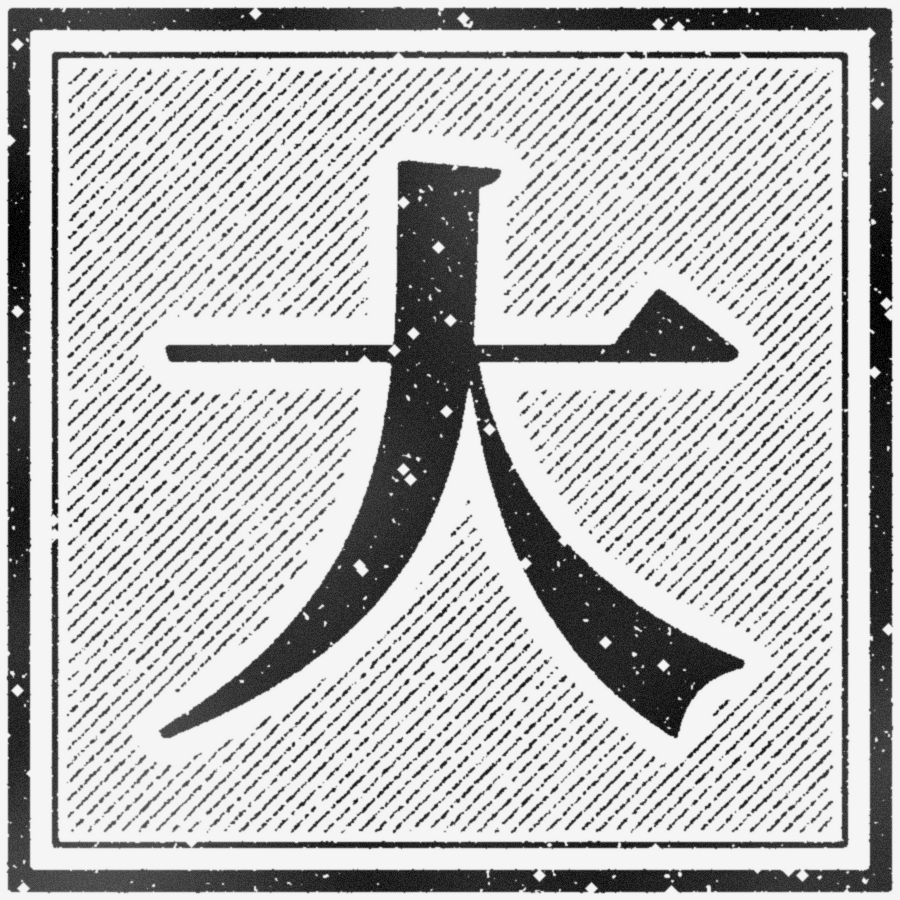
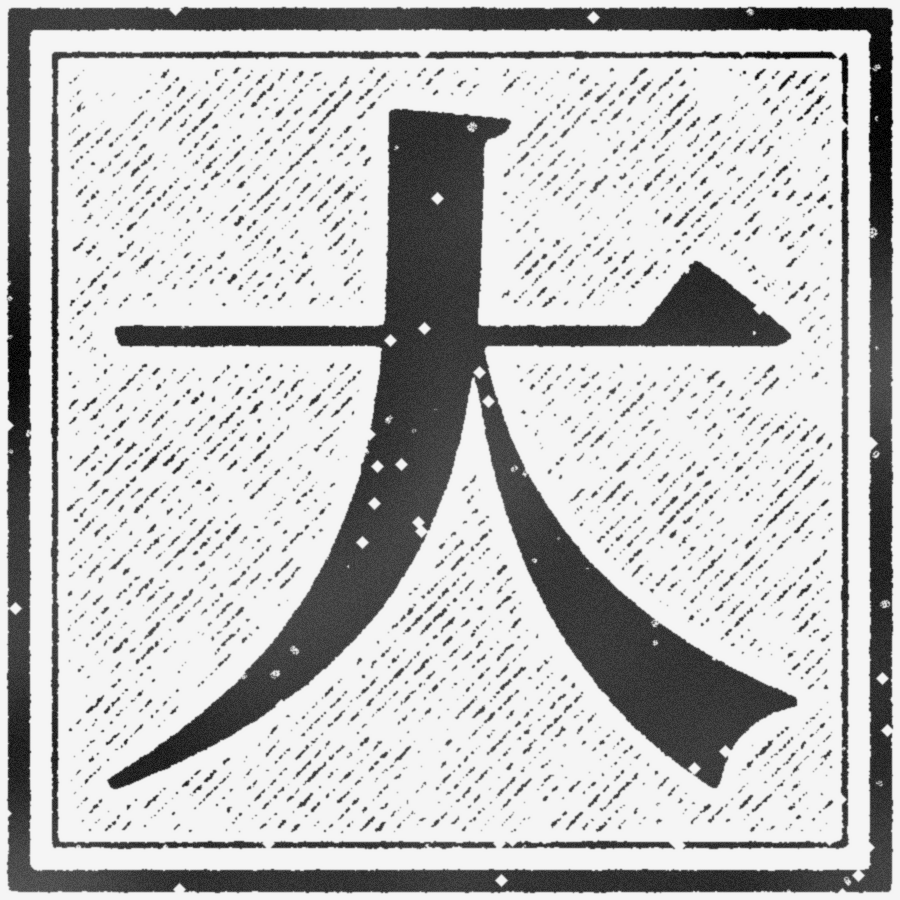
Chinese initials: Song bold filling the frame, 4 lines to match the Latin
The 1610 woodcut letters are plain roman capitals that fill their blocks,
so the Chinese initials now use the book's Song bold (有 was in Kai) scaled
to fill the frame, and drop over 4 lines to match the Latin blocks' height.

diff --git a/tools/make_zh_initial.py b/tools/make_zh_initial.py
@@ -1,21 +1,34 @@
 """Render a Chinese character as an aged woodblock initial, to match the
 woodcut initials of the 1610 edition.
 
-usage: python tools/make_zh_initial.py CHAR FONTFILE OUT.png [--seed N]
+usage: python tools/make_zh_initial.py CHAR FONTFILE OUT.png [--seed N] [--wght W]
 
 Double-ruled square block with a hatched ground, the character in solid ink
 with a white halo, then worn: ragged edges, uneven inking, specks where the
 ink did not take. Output: greyscale PNG, 900 px square (about 35 mm at 657 dpi).
+
+The character is scaled to fill the frame, as the roman capitals of the 1610
+woodcut initials do, and set in a Song (serif) face: the woodcut letters are
+plain roman capitals, so the Chinese counterpart is the plain book face too.
+--wght instances a variable font (e.g. NotoSerifSC-VF.ttf --wght 900).
 """
+import io
 import sys
 
 import numpy as np
+from fontTools.ttLib import TTFont
+from fontTools.varLib import instancer
 from PIL import Image, ImageDraw, ImageFont
 from scipy import ndimage as ndi
 
 char, fontfile, out = sys.argv[1], sys.argv[2], sys.argv[3]
 seed = int(sys.argv[sys.argv.index('--seed') + 1]) if '--seed' in sys.argv else 1
 rng = np.random.default_rng(seed)
+if '--wght' in sys.argv:
+    w = int(sys.argv[sys.argv.index('--wght') + 1])
+    inst = instancer.instantiateVariableFont(TTFont(fontfile), {'wght': w})
+    fontfile = io.BytesIO()
+    inst.save(fontfile)
 
 S = 900
 ink = Image.new('L', (S, S), 0)          # 255 = ink
@@ -34,17 +47,23 @@ gmask = Image.new('L', (S, S), 0)
 ImageDraw.Draw(gmask).rectangle([66, 66, S - 67, S - 67], fill=255)
 ink.paste(ground, (0, 0), gmask)
 
-# character: white halo, then solid ink
-font = ImageFont.truetype(fontfile, 620)
+# character: white halo, then solid ink; sized so its larger side is FILL px
+FILL = 730
+if isinstance(fontfile, io.BytesIO):
+    fontfile.seek(0)
+    data = fontfile.getvalue()
+    load = lambda size: ImageFont.truetype(io.BytesIO(data), size)
+else:
+    load = lambda size: ImageFont.truetype(fontfile, size)
+box = d.textbbox((0, 0), char, font=load(600))
+font = load(round(600 * FILL / max(box[2] - box[0], box[3] - box[1])))
 box = d.textbbox((0, 0), char, font=font)
 x = (S - (box[2] - box[0])) / 2 - box[0]
 y = (S - (box[3] - box[1])) / 2 - box[1]
 glyph = Image.new('L', (S, S), 0)
 ImageDraw.Draw(glyph).text((x, y), char, font=font, fill=255)
 gl = np.asarray(glyph) > 127
-if '--thicken' in sys.argv:            # Kai strokes are thin for a woodblock
-    gl = ndi.binary_dilation(gl, iterations=7)
-halo = ndi.binary_dilation(gl, iterations=26)
+halo = ndi.binary_dilation(gl, iterations=16)
 a = np.asarray(ink) > 127
 a = (a & ~halo) | gl
 

diff --git a/preamble.tex b/preamble.tex
@@ -111,7 +111,7 @@
     {\usebox{\zhinitboxsave}}{}}
 % Chinese woodblock initial, rendered by tools/make_zh_initial.py:
 % \zhwoodinitial[lines]{name} uses figures/orn_zh_name.png
-\NewDocumentCommand{\zhwoodinitial}{O{3} m}{%
+\NewDocumentCommand{\zhwoodinitial}{O{4} m}{%
   \noindent\lettrine[image=true, lines=#1, findent=0.35em, nindent=0pt, loversize=0.05]{figures/orn_zh_#2}{}}
 % decorated initial for a Latin-script translation: Goudy Initialen (TeX Live
 % `initials' collection), a roman capital on a foliage ground in a square, the

diff --git a/figures/README.md b/figures/README.md
@@ -14,7 +14,7 @@
 | `orn_head_b.png` | 扫描 0013（5r 页首花饰） | `crop_ornament.py 0013 212 218 1025 390` |
 | `orn_initial_P.png` | 扫描 0007（木刻首字母 P） | `crop_ornament.py 0007 190 718 500 1010` |
 | `orn_initial_M.png` | 扫描 0013（木刻首字母 M） | `crop_ornament.py 0013 212 878 508 1175` |
-| `orn_zh_you.png`、`orn_zh_zai.png`、`orn_zh_da.png` | 新制 | `make_zh_initial.py 有 C:/windows/fonts/simkai.ttf … --thicken --seed 3`；`make_zh_initial.py 在 fonts/NotoSerifSC-Bold.ttf … --seed 5`（`大` 目前未使用） |
+| `orn_zh_you.png`、`orn_zh_zai.png`、`orn_zh_da.png` | 新制 | `make_zh_initial.py 有 fonts/NotoSerifSC-Bold.ttf … --seed 3`；`在 … --seed 5`；`大 … --seed 7`（`大` 目前未使用）。宋体粗体、撑满边框，与 1610 年木刻首字母的罗马正体大写对应 |
 | `chart_*.tex` | 扫描 0038–0040 | `star_chart.py` 生成：`orion`（0038，`90 0 1402 1810 --dropxy "3418,2822;3381,2870" --split "2712,1052;2204,1292"`），`pleiades`（0039，`75 250 1160 915`），`orion_head`（0040，`400 1040 860 1590 --allsmall`），`praesepe`（0040，`895 900 1402 1690`） |
 
 折痕修补的命令都对 `*_orig.png`（第一次运行时自动保存的未修补图）操作，可以调整参数后重跑。`*_orig.png` 不进版本库，可用上表的裁切命令重新生成。
